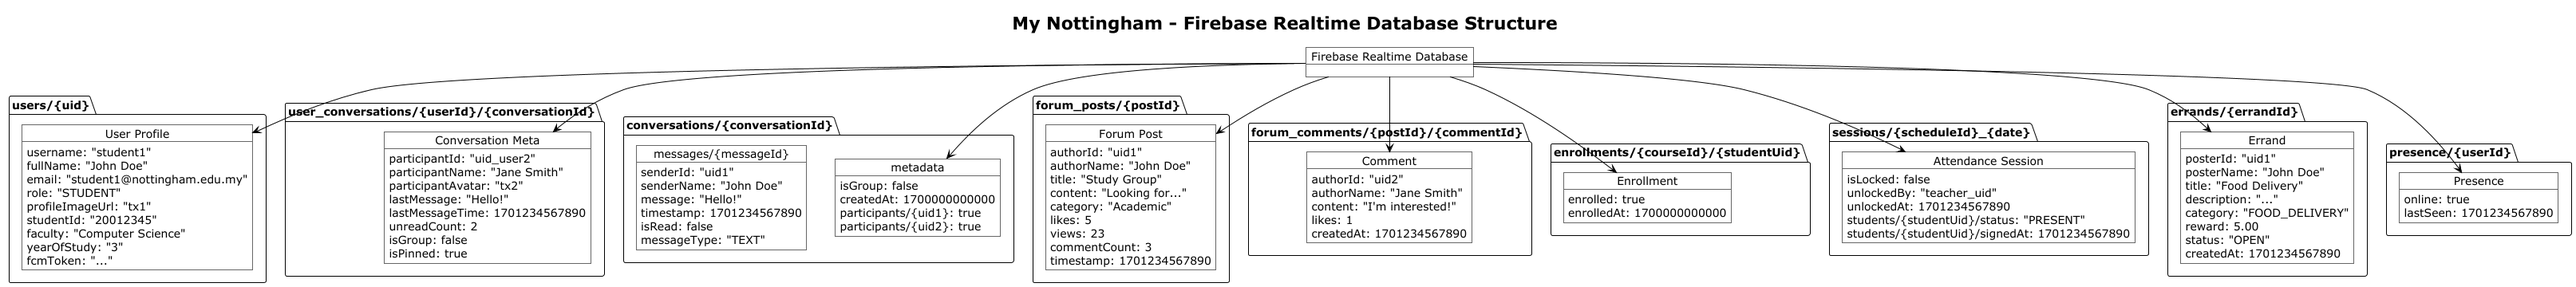
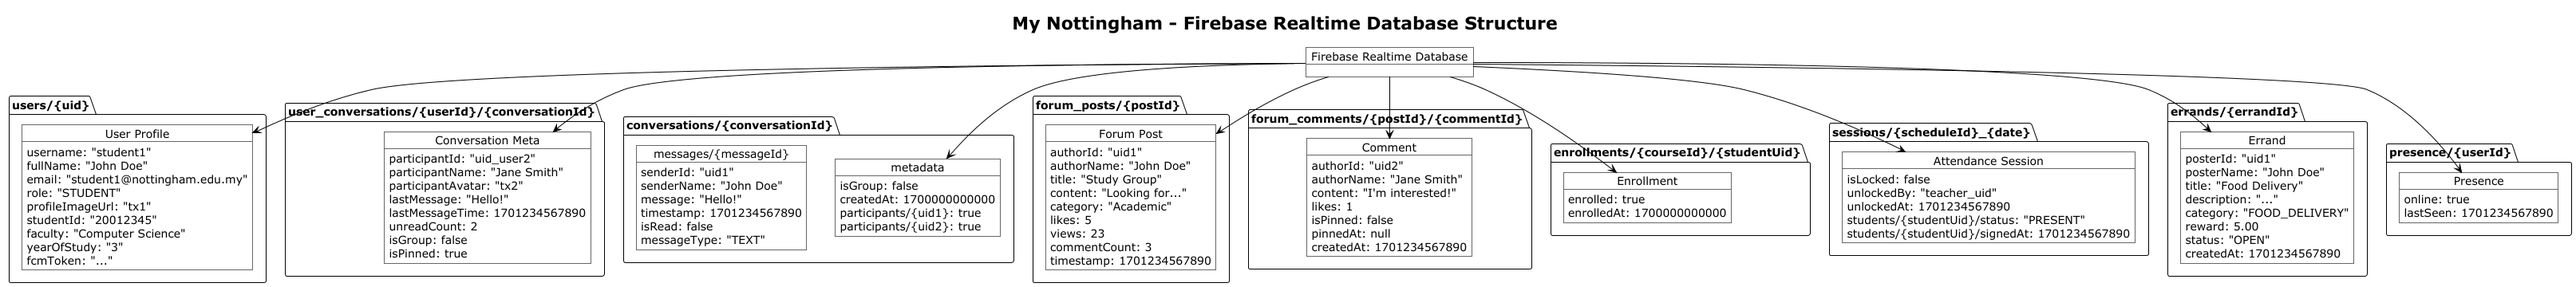
docs: Update UML diagrams and report for forum comment management
- Add ForumComment class to class diagram with isPinned/pinnedAt fields
- Add deleteComment and togglePinComment methods to FirebaseForumRepository
- Update Firebase structure diagram with comment pinning fields
- Update report with FCM notification filtering description
- Add comment moderation to forum feature description

Changed region(s): [[0.4647, 0.3972, 0.5886, 0.9167]]

diff --git a/docs/report/main.tex b/docs/report/main.tex
@@ -127,7 +127,7 @@ INSTATT Attendance & Comprehensive attendance tracking for teachers and students
 Sports Booking & Reserve sports facilities with real-time availability checking \\
 Campus Errand & Peer-to-peer delivery and errand marketplace \\
 Messaging System & Real-time chat with online status and typing indicators \\
-Campus Forum & Community discussions with posts, comments, and likes \\
+Campus Forum & Community discussions with posts, comments, likes, and comment moderation \\
 AI Assistant (Notti) & Intelligent chatbot powered by Firebase AI (Gemini) \\
 User Profile & Dynamic profile management with avatar customization \\
 \bottomrule
@@ -246,7 +246,7 @@ The database structure follows a denormalized design optimized for read performa
 Firebase Realtime Database
 |-- users/{uid}/
 |   |-- username, fullName, email, role
-|   |-- profileImageUrl, studentId, faculty
+|   |-- profileImageUrl, studentId, faculty, fcmToken
 |-- user_conversations/{userId}/{conversationId}/
 |   |-- participantId, participantName, lastMessage
 |   |-- unreadCount, isPinned, isOnline
@@ -255,6 +255,7 @@ Firebase Realtime Database
 |   |-- messages/{messageId}/
 |-- forum_posts/{postId}/
 |-- forum_comments/{postId}/{commentId}/
+|   |-- authorId, content, likes, isPinned, pinnedAt
 |-- sessions/{scheduleId}_{date}/
 |-- errands/{errandId}/
 |-- presence/{userId}/
@@ -303,7 +304,7 @@ User authentication is handled by Firebase Authentication with email/password cr
 
 \subsubsection{Firebase Cloud Messaging}
 
-Push notifications are delivered via Firebase Cloud Messaging (FCM). When a user sends a message, the recipient receives a notification even when the app is in the background. Figure~\ref{fig:messaging} shows the complete messaging flow.
+Push notifications are delivered via Firebase Cloud Messaging (FCM). When a user sends a message, the recipient receives a notification even when the app is in the background. The notification system includes intelligent filtering to prevent self-notifications (users don't receive notifications for their own messages) and proper FCM token management on logout to prevent cross-account notification issues. Figure~\ref{fig:messaging} shows the complete messaging flow.
 
 \begin{figure}[H]
 \centering
